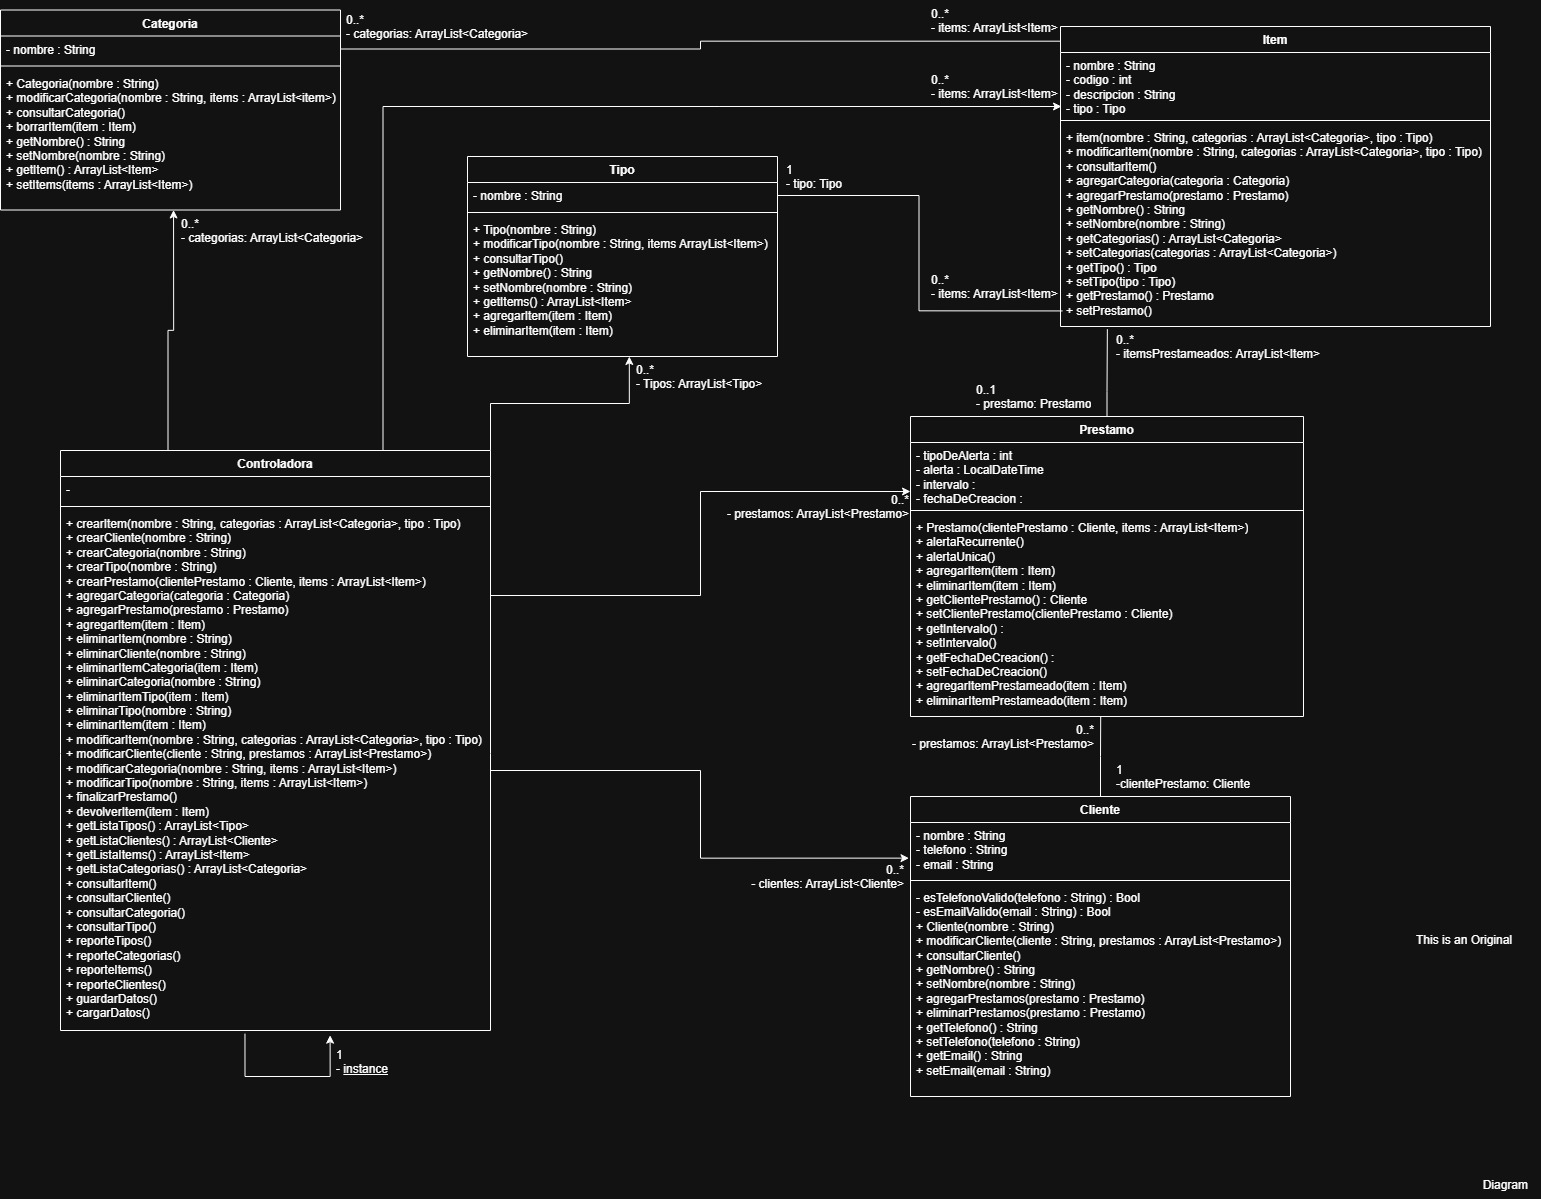
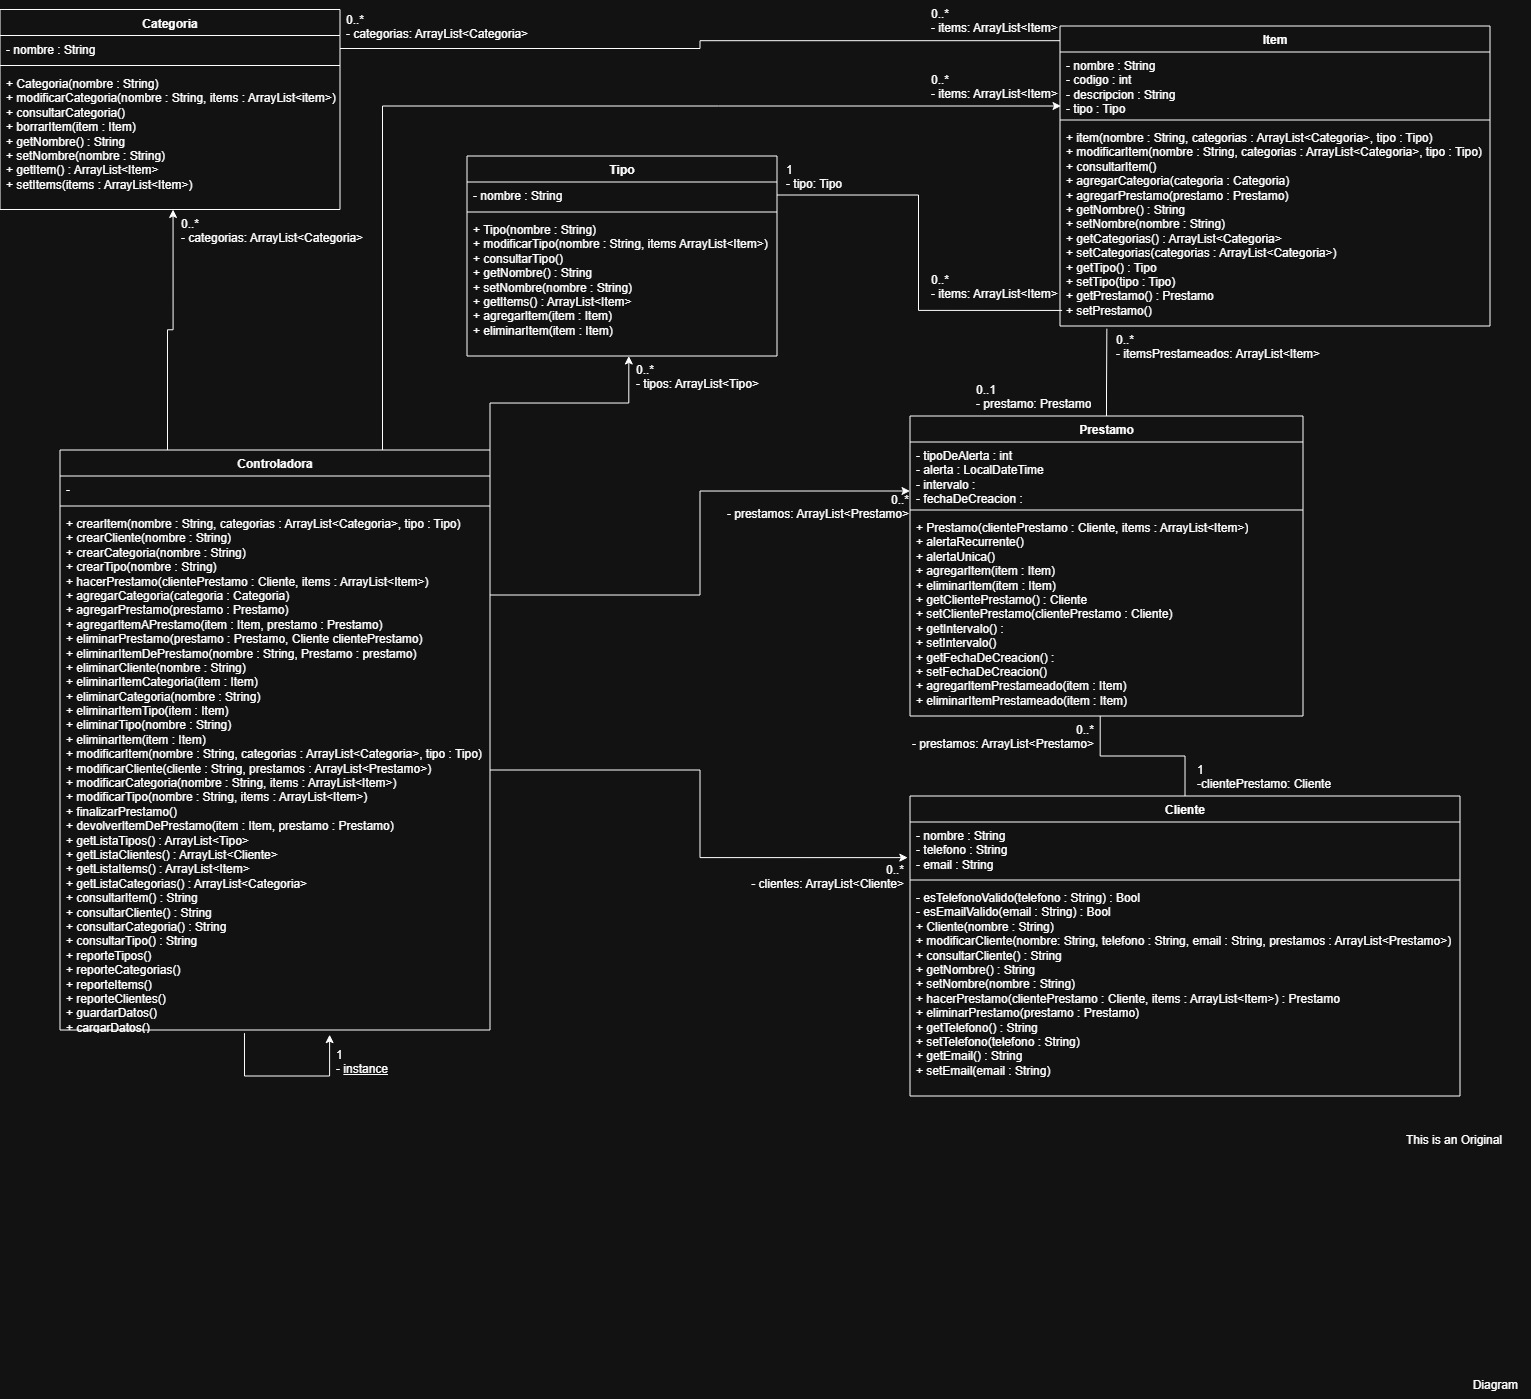
Add files via upload

diff --git a/ProyectoPOO/src/control/Controladora.java b/ProyectoPOO/src/control/Controladora.java
@@ -9,25 +9,50 @@ import logica.Prestamo;
 import logica.Tipo;
 
 public class Controladora {
+	private static Controladora instance = null;
+	private ArrayList<Categoria> categorias;
+	private ArrayList<Tipo> tipos;
+	private ArrayList<Item> items;
+	private ArrayList<Prestamo> prestamos;
+	private ArrayList<Cliente> clientes;
+	
+	private Controladora() {
+		categorias = new ArrayList<Categoria>();
+		tipos = new ArrayList<Tipo>();
+		items = new ArrayList<Item>();
+		prestamos = new ArrayList<Prestamo>();
+		clientes = new ArrayList<Cliente>();
+	}
+	
+	public static Controladora getInstance() {
+		if (instance == null) {
+			instance = new Controladora();
+		}
+		return instance;
+	}
 
 	public void crearItem(String nombre, ArrayList<Categoria> categorias, Tipo tipo) {
 		
 	}
 	
-	public void crearCliente(String nombre) {
-		
+	public void crearCliente(String nombre, String telefono, String email) {
+		Cliente c = new Cliente(nombre, telefono, email);
+		clientes.add(c);
 	}
 	
 	public void crearCategoria(String nombre) {
-		
+		Categoria c = new Categoria(nombre);
+		categorias.add(c);
 	}
 	
 	public void crearTipo(String nombre) {
-		
+		Tipo t = new Tipo(nombre);
+		tipos.add(t);
 	}
 	
-	public void crearPrestamo(Cliente clientePrestamo, ArrayList<Item> items) {
-		
+	public void hacerPrestamo(Cliente clientePrestamo, ArrayList<Item> items) {
+		Prestamo p = clientePrestamo.hacerPrestamo(clientePrestamo, items);
+		prestamos.add(p);
 	}
 	
 	public void agregarCategoria(Categoria categoria) {
@@ -38,11 +63,15 @@ public class Controladora {
 		
 	}
 	
-	public void agregarItem(Item item) {
+	public void agregarItemAPrestamo(Item item, Prestamo prestamo) {
 		
 	}
 	
-	public void eliminarItem(String nombre) {
+	public void eliminarPrestamo(Prestamo prestamo, Cliente clientePrestamo) {
+		clientePrestamo.eliminarPrestamo(prestamo);
+	}
+	
+	public void eliminarItemDePrestamo(String nombre, Prestamo prestamo) {
 		
 	}
 	
@@ -90,12 +119,12 @@ public class Controladora {
 		
 	}
 	
-	public void devolverItem(Item item) {
+	public void devolverItemDePrestamo(Item item, Prestamo prestamo) {
 		
 	}
 	
 	public ArrayList<Tipo> getListaTipos() {
-		
+		return 
 	}
 	
 	public ArrayList<Cliente> getListaClientes() {
@@ -110,19 +139,19 @@ public class Controladora {
 		
 	}
 	
-	public void consultarItem() {
+	public String consultarItem() {
 		
 	}
 	
-	public void consultarCliente() {
+	public String consultarCliente() {
 		
 	}
 	
-	public void consultarCategoria() {
+	public String consultarCategoria() {
 		
 	}
 	
-	public void consultarTipo() {
+	public String consultarTipo() {
 		
 	}
 	

diff --git a/ProyectoPOO/src/logica/Cliente.java b/ProyectoPOO/src/logica/Cliente.java
@@ -6,6 +6,7 @@ public class Cliente {
 	private String nombre;
 	private String telefono;
 	private String email;
+	private ArrayList<Prestamo> prestamos;
 	
 	private Boolean esTelefonoValido(String telefono) {
 		return true;
@@ -16,31 +17,41 @@ public class Cliente {
 	}
 	
 	public Cliente(String nombre, String telefono, String email) {
-		
+		this.nombre = nombre;
+		this.telefono = telefono;
+		this.email = email;
 	}
 	
-	public void modificarCliente(String cliente, ArrayList<Prestamo> prestamos) {
-		
+	public void modificarCliente(String nombre, String telefono, String email, ArrayList<Prestamo> prestamos) {
+		this.nombre = nombre;
+		this.telefono = telefono;
+		this.email = email;
+		this.prestamos = prestamos;
 	}
 	
-	public void consultarCliente() {
-		
+	public String consultarCliente() {
+		return "Nombre del cliente: " + nombre +
+				"\nTelefono del cliente: " + telefono +
+				"\nEmail del cliente: " + email +
+				"\nPrestamos del cliente: " + prestamos;
 	}
 	
 	public String getNombre() {
 		return nombre;
 	}
 	
-	public void setNombre() {
-		
+	public void setNombre(String nombre) {
+		this.nombre = nombre;
 	}
 	
-	public void agregarPrestamo(Prestamo prestamo) {
-		
+	public Prestamo hacerPrestamo(Cliente clientePrestamo, ArrayList<Item> items) {
+		Prestamo p = new Prestamo(clientePrestamo, items);
+		prestamos.add(p);
+		return p;
 	}
 	
 	public void eliminarPrestamo(Prestamo prestamo) {
-		
+		prestamos.remove(prestamo);
 	}
 	
 	public String getTelefono() {
@@ -48,7 +59,7 @@ public class Cliente {
 	}
 	
 	public void setTelefono(String telefono) {
-		
+		this.telefono = telefono;
 	}
 	
 	public String getEmail() {
@@ -56,7 +67,7 @@ public class Cliente {
 	}
 	
 	public void setEmail(String email) {
-		
+		this.email = email;
 	}
 	
 }

diff --git a/ProyectoPOO/src/logica/Categoria.java b/ProyectoPOO/src/logica/Categoria.java
@@ -4,6 +4,7 @@ import java.util.ArrayList;
 
 public class Categoria {
 	private String nombre;
+	private ArrayList<Item> items;
 	
 	public Categoria(String nombre) {
 		this.nombre = nombre;
@@ -30,7 +31,7 @@ public class Categoria {
 	}
 	
 	public ArrayList<Item> getItems() {
-		return ?;
+		
 	}
 	
 	public void setItems(ArrayList<Item> items) {

diff --git a/ProyectoPOO/src/logica/Tipo.java b/ProyectoPOO/src/logica/Tipo.java
@@ -4,8 +4,9 @@ import java.util.ArrayList;
 
 public class Tipo {
 	private String nombre;
+	private ArrayList<Item> items;
 	
-	Tipo(String nombre) {
+	public Tipo(String nombre) {
 		
 	}
 	

diff --git a/ProyectoPOO/src/logica/Item.java b/ProyectoPOO/src/logica/Item.java
@@ -7,6 +7,8 @@ public class Item {
 	private int codigo;
 	private String descripcion;
 	private Tipo tipo;
+	private Prestamo prestamo;
+	private ArrayList<Categoria> categorias;
 	
 	public Item(String nombre, ArrayList<Categoria> categorias, Tipo tipo) {
 		

diff --git a/ProyectoPOO/src/logica/Prestamo.java b/ProyectoPOO/src/logica/Prestamo.java
@@ -8,6 +8,8 @@ public class Prestamo {
 	private LocalDateTime alerta;
 	private int intervalo;
 	private LocalDateTime fechaDeCreacion;
+	private Cliente clientePrestamo;
+	private ArrayList<Item> itemsPrestameados;
 	
 	public Prestamo(Cliente clientePrestamo, ArrayList<Item> items) {
 		